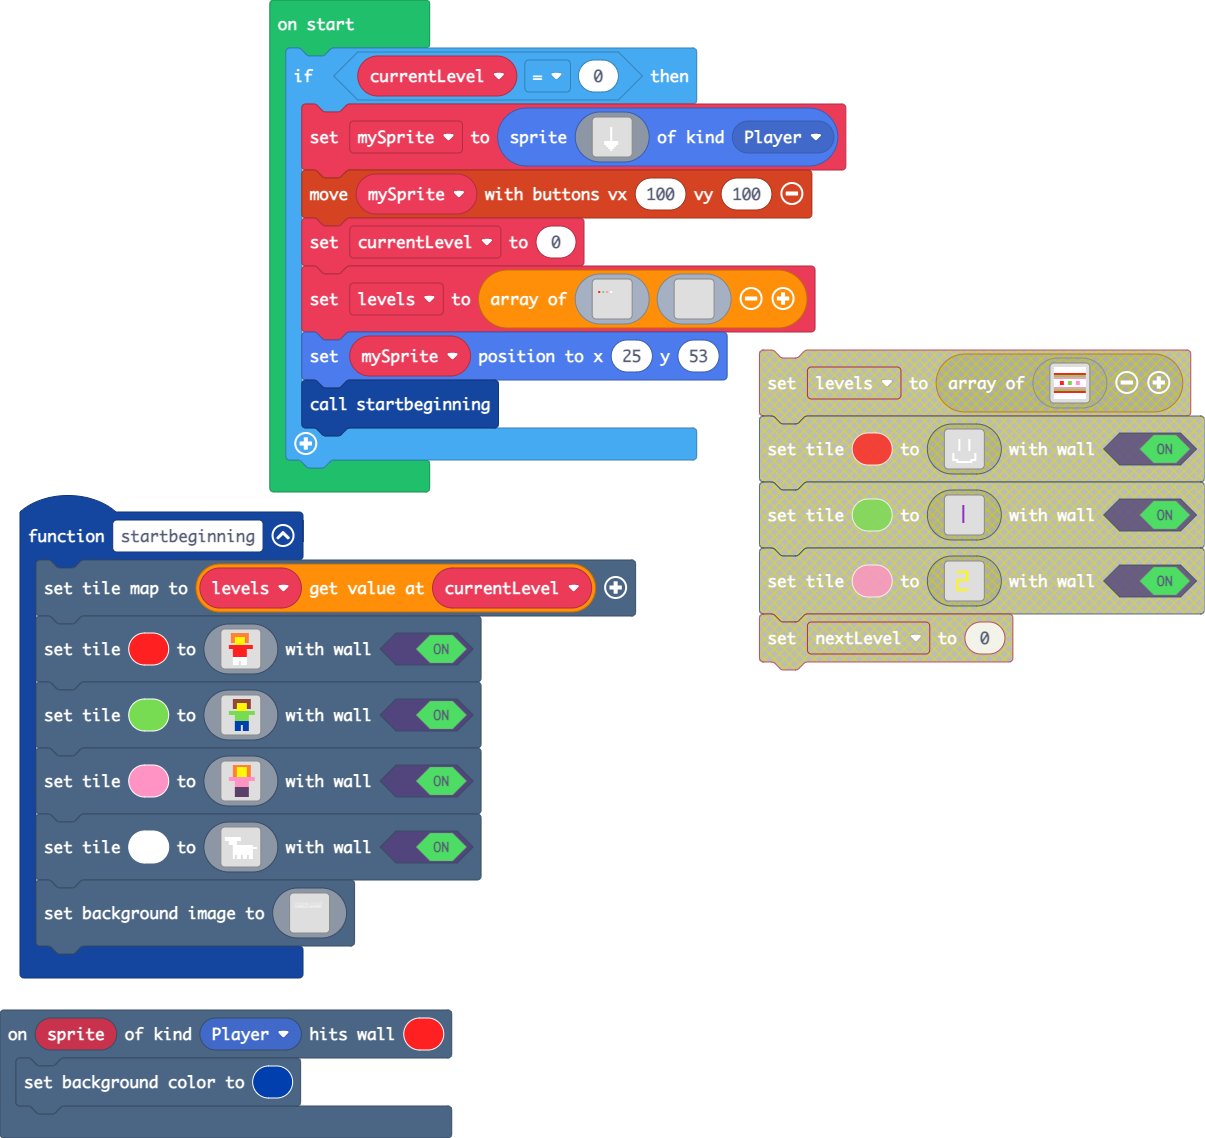
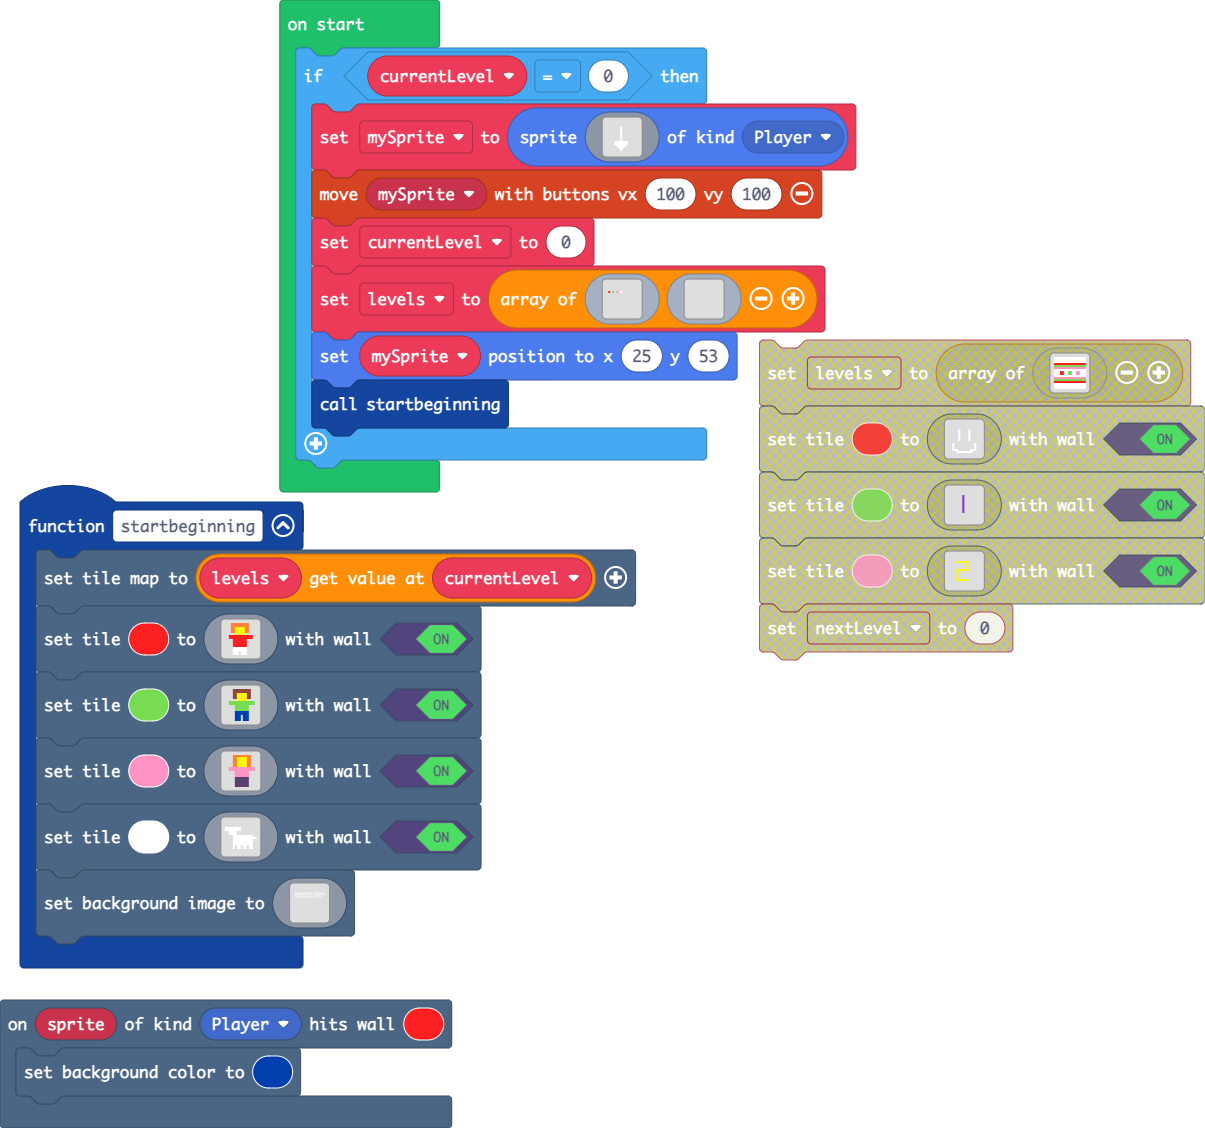
Update main.blocks, main.ts

Changed region(s): [[0.0, 0.0, 1.0, 0.8378], [0.1842, 0.8688, 0.3685, 0.9309], [0.0307, 0.8688, 0.0921, 0.9619]]

diff --git a/main.ts b/main.ts
@@ -79,33 +79,33 @@ function startbeginning () {
         ................................................................................................................................................................
         ................................................................................................................................................................
         ................................................................................................................................................................
-        ........................................................................................................................................11111...................
-        ....................................................................................1.............1..............................1.11111........................
-        ........1111111111...1.....1.........................................................1...........1....1111111....................1...........1..................
-        ........1............1.....1....11111111...1111111....11111111..1111111111............1.........1....1.......1.....1........1....1...........1..................
-        ........1............1.....1....1.......1.1.......1...1..........1.....................1.......1....1.........1....1........1....1...........1..................
-        ........1............1.....1....1.......1.1.......1...1..........111....................1.....1....1...........1...1........1....1...........1..................
-        ........1............1.....1....1.......1.1.......1...1..........1..1....................1...1.....1...1.......1...1........1....1...........1..................
-        ........1............1111111....1.......1.1.......1...1..........1...1....................1.1......1...........1...1........1....1.....1111111..................
-        ........1............1.....1....1.......1.1.......1.....111111...1....11111........................1...........1...1........1.....1.............................
-        ........1............1.....1....1.......1.1.......1..............1.1111.1..................1.......1...........1....1.......1.....1.............................
-        ........1............1.....1....1.......1.1.......1..........1...1.......1.................1.......1...........1....1.......1.....1......1......................
-        ........1111111111...1.....1.....1111111...1111111...........1...1.........................1.......1...........1....1.......1.....1.......1.....................
-        .......................................................11111111..1....11111................1........1.........1.....1.......1.....1........1....................
-        .................................................................11111.....................1.........1.......1......1.......1.....1.........11..................
-        ...........................................................................................1..........1...111.......1.......1.....1...........1.................
-        ...........................................................................................1................................1..................1................
-        ............................................................................................1.............................111...................................
-        ........1111111111....111....111...1111111111.....111............111.............1111111111....111.....111.....1111111111.....11111111..........................
-        ........1111111111....111....111...1111111111.....111............111.............1111111111....1111....111.....1111111111.....111111111.........................
-        ........11............111....111...111....111.....111............111.............111...........11111...111.....111............1111111111........................
-        ........11............1111111111...111....111.....111............111.............111...........111111..111.....111............111....111........................
-        ........11............1111111111...111....111.....111............111.............1111111111....111111..111.....1111111111.....111....111........................
-        ........11............1111111111...111....111.....111............111.............1111111111....111.1111111.....1111111111.....1111111111........................
-        ........11............111....111...1111111111.....111............111.............111...........111..111111.....111............1111111111........................
-        ........11............111....111...1111111111.....1111111111.....1111111111......111...........111...11111.....111............111...1111........................
-        ........1111111111....111....111...111....111.....1111111111.....1111111111......1111111111....111....1111.....1111111111.....111....1111.......................
-        ........1111111111....111....111...111....111.....1111111111.....1111111111......1111111111....111.....111.....1111111111.....111.....1111......................
+        ................................................................................................................................................................
+        .................................................................11111111111...11111111111.........1111....1111...111111111111..1111.....1111...1111111111......
+        ........1111111111..1111....1111..111111111111..1111111111111....11111111111...11111111111.........1111....1111...111111111111..1111.....1111...1111111111......
+        ........1111111111..1111....1111..111111111111..1111111111111....1111..........11111111111.........1111....1111...111111111111..1111.....1111...11111111111.....
+        ........1111111111..1111....1111..111111111111..1111111111111....1111..........1111................1111....1111...111111111111..1111.....1111...111.....111.....
+        ........1111........1111....1111..1111.....111..1111.....1111....1111..........1111................1111....1111...1111.....111..1111.....1111...111.....111.....
+        ........1111........1111....1111..1111.....111..1111.....1111....11111111111...11111111111.........1111....1111...1111.....111..1111.....1111...111.....111.....
+        ........1111........111111111111..1111.....111..1111.....1111....11111111111...11111111111.........111111111111...1111.....111..1111.....1111...1111111111......
+        ........1111........111111111111..1111.....111..1111.....1111...........1111...1111....................1111.......1111.....111..1111.....1111...1111111111......
+        ........1111........1111....1111..1111.....111..1111.....1111...........1111...1111....................1111.......1111.....111..1111111111111...11111111111.....
+        ........1111111111..1111....1111..111111111111..1111111111111...........1111...1111....................1111.......111111111111..1111111111111...111.....1111....
+        ........1111111111..1111....1111..111111111111..1111111111111....11111111111...11111111111.............1111.......111111111111..1111111111111...111.....1111....
+        ........1111111111..1111....1111..111111111111..1111111111111....11111111111...11111111111.............1111.......111111111111..1111111111111...111.....11111...
+        ................................................................................................................................................................
+        ................................................................................................................................................................
+        ................................................................................................................................................................
+        ................................................................................................................................................................
+        ........1111111111....111....111....11111111......11111111........11111111.......1111111111....111111111111....1111111111.....11111111..........................
+        ........1111111111....111....111....11111111......111111111.......11111111.......1111111111....111111111111....1111111111.....111111111.........................
+        ........1111111111....111....111...111....111.....1111111111.....111....111......1111111111....111111111111....111............1111111111........................
+        ........1111..........1111111111...111....111.....111....111.....111....111......1111...............11.........111............111....111........................
+        ........1111..........1111111111...111....111.....111....111.....111....111......1111...............11.........1111111111.....111....111........................
+        ........1111..........1111111111...111....111.....1111111111.....1111111111......1111...............11.........1111111111.....1111111111........................
+        ........1111..........111....111...1111111111.....1111111111.....1111111111......1111...............11.........111............1111111111........................
+        ........1111111111....111....111...1111111111.....111...1111.....111....111......1111111111.........11.........111............111...1111........................
+        ........1111111111....111....111...111....111.....111....1111....111....111......1111111111.........11.........1111111111.....111....1111.......................
+        ........1111111111....111....111...111....111.....111.....1111...111....111......1111111111.........11.........1111111111.....111.....1111......................
         ................................................................................................................................................................
         ................................................................................................................................................................
         ................................................................................................................................................................
